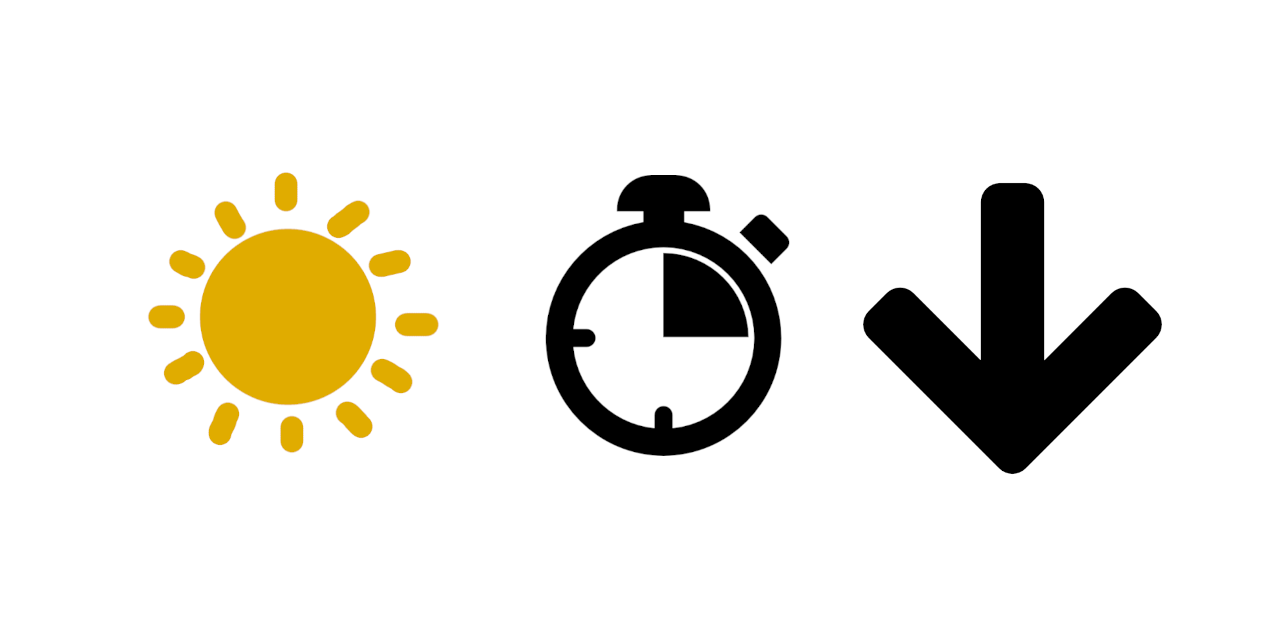
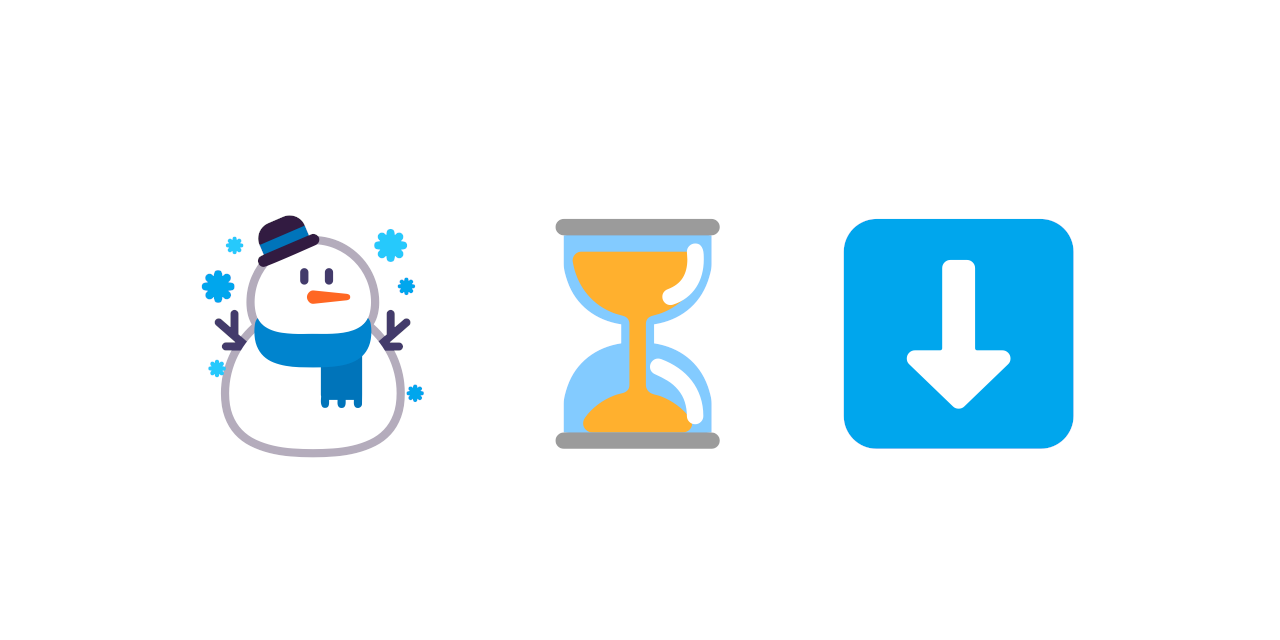
Yay, winter ☃

Changed region(s): [[0.6562, 0.2812, 0.9062, 0.75], [0.0938, 0.25, 0.3438, 0.7188], [0.4062, 0.25, 0.625, 0.7188]]

diff --git a/countdown.html b/countdown.html
@@ -2,22 +2,22 @@
 <html lang="en" >
 <head>
   <meta charset="UTF-8">
-  <title>SummerCountdown</title>
-  <meta name="description" content="SummerCountdown is a smart clock that calculates the time until summer. When it hits zero, it justs stops right there. ">
+  <title>WinterCountdown</title>
+  <meta name="description" content="WinterCountdown is a smart clock, successor of SummerCountdown.">
 
   <!-- Facebook -->
   <meta property="og:url" content="https://notfenixio.is-a.dev/countdown">
   <meta property="og:type" content="website">
-  <meta property="og:title" content="SummerCountdown">
-  <meta property="og:description" content="SummerCountdown is a smart clock that calculates the time until summer. When it hits zero, it justs stops right there. ">
+  <meta property="og:title" content="WinterCountdown">
+  <meta property="og:description" content="WinterCountdown is a smart clock, successor of SummerCountdown">
   <meta property="og:image" content="https://raw.githubusercontent.com/NotFenixio/notfenixio.github.io/main/media/summercountdown.png">
 
   <!-- Twitter -->
   <meta name="twitter:card" content="summary_large_image">
-  <meta property="twitter:domain" content="notfenixio.github.io">
+  <meta property="twitter:domain" content="notfenixio.is-a.dev">
   <meta property="twitter:url" content="https://notfenixio.is-a.dev/countdown">
-  <meta name="twitter:title" content="SummerCountdown">
-  <meta name="twitter:description" content="SummerCountdown is a smart clock that calculates the time until summer. When it hits zero, it justs stops right there. ">
+  <meta name="twitter:title" content="WinterCountdown">
+  <meta name="twitter:description" content="WinterCountdown is a smart clock, successor of SummerCountdown">
   <meta name="twitter:image" content="https://raw.githubusercontent.com/NotFenixio/notfenixio.github.io/main/media/summercountdown.png">
   <link rel='stylesheet' href='https://unpkg.com/daisyui@latest/dist/full.css'>
 

diff --git a/countdown.js b/countdown.js
@@ -1,5 +1,5 @@
 let counter = 60;
-var date = new Date("June 21, 2023 11:00:00").getTime();
+var date = new Date("November 22, 2023 13:00:00").getTime();
 let Cdays = document.getElementById('days');
 let Chours = document.getElementById('hours');
 let Cminutes = document.getElementById('minutes');
